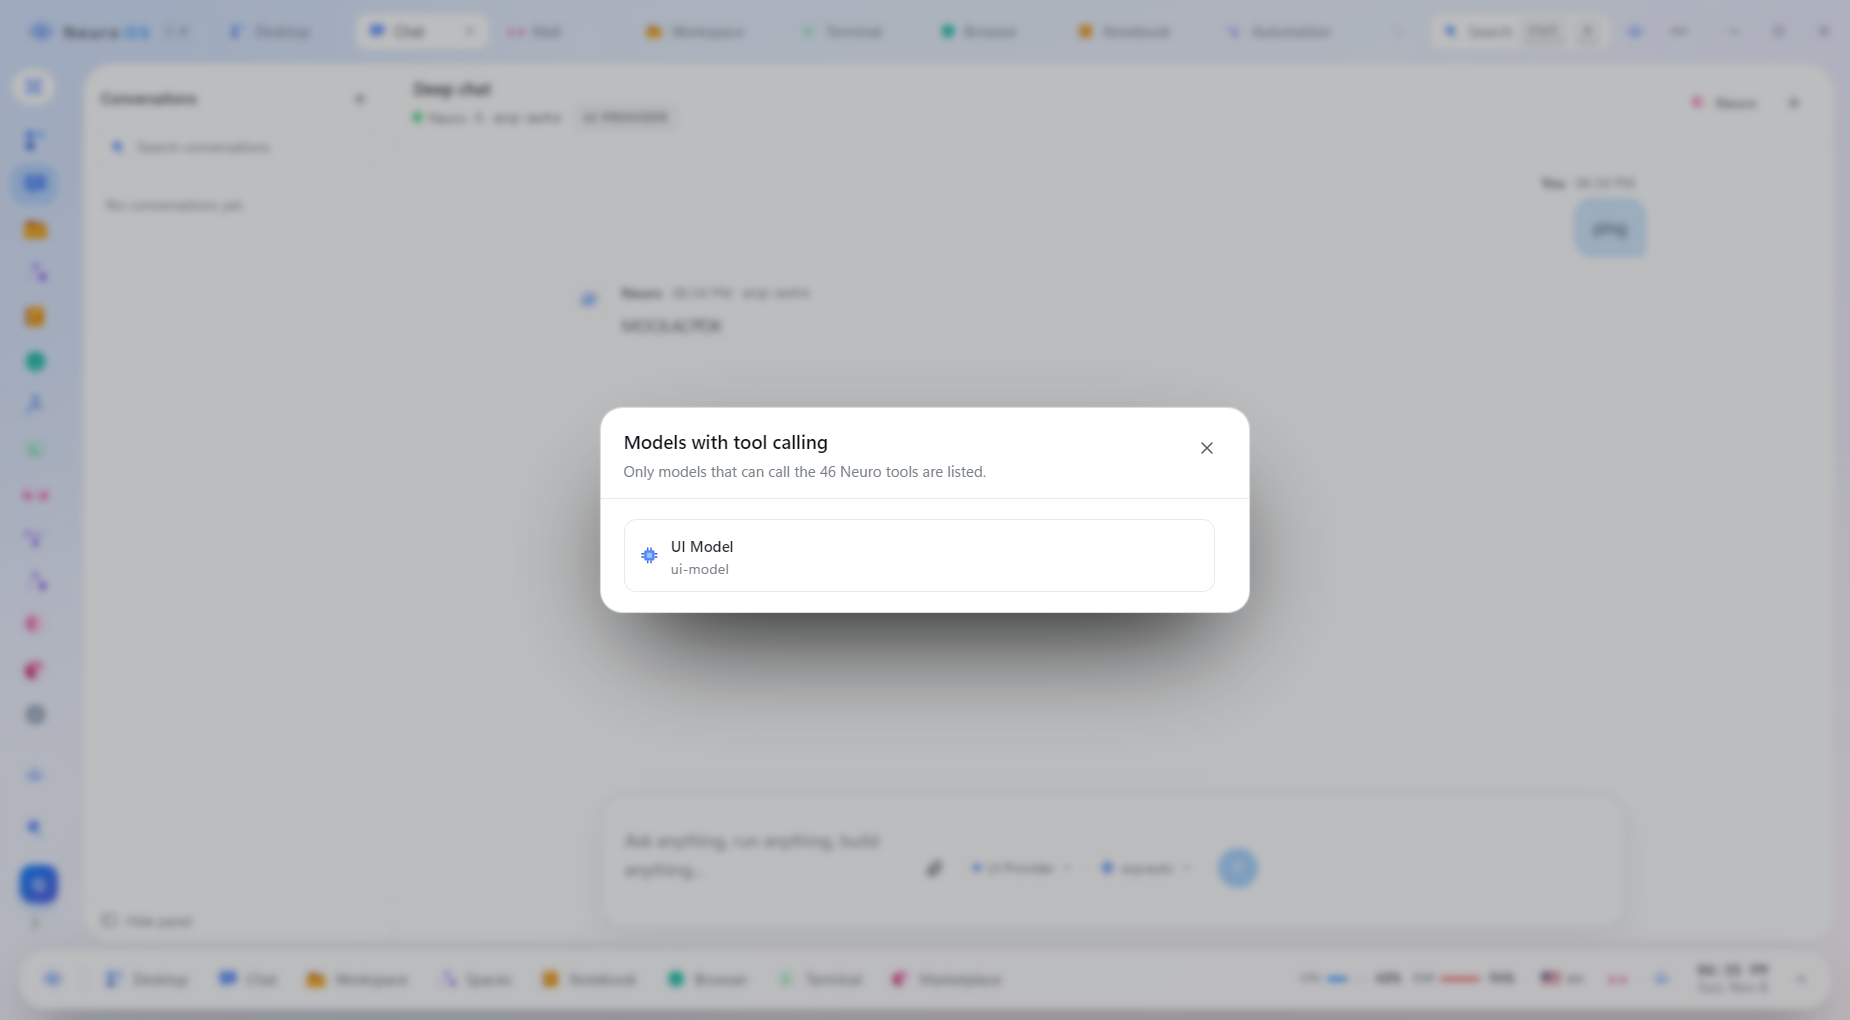
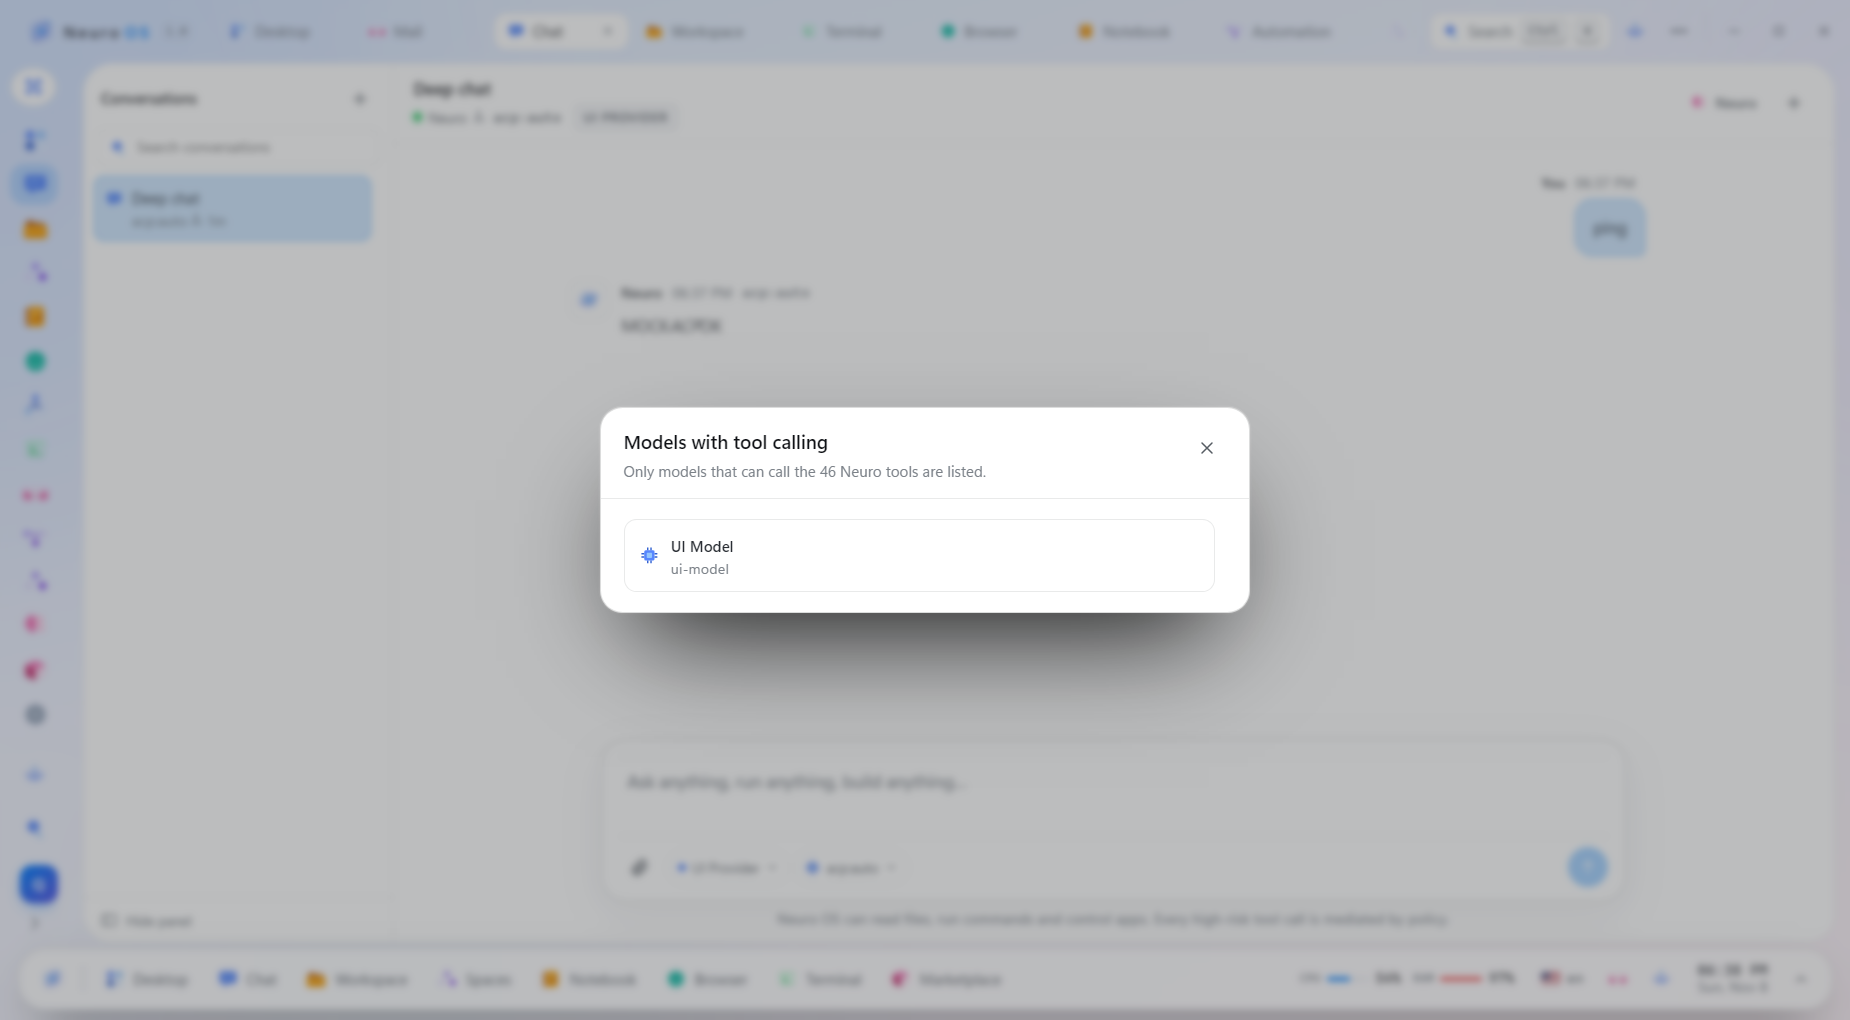
fix(chat): full-width composer textarea and correct underscore rendering
- the chat composer no longer inherits the Composer surface's 3-column grid; the textarea
  takes the full box and provider/model/attach/send sit in their own toolbar row
- markdown no longer turns intraword underscores into italics (MOCK_ACP_OK stays intact)

diff --git a/src/renderer/src/components/Markdown.tsx b/src/renderer/src/components/Markdown.tsx
@@ -1,4 +1,4 @@
-import { Fragment, useMemo, useState, type ReactNode } from 'react';
+import { Fragment, useMemo, useState, type ReactNode } from 'react';
 import { Icon } from './Icon';
 
 /* A small, dependency-free markdown renderer optimised for chat streaming. */
@@ -105,7 +105,7 @@ function parse(markdown: string): Block[] {
 
 function inline(text: string, keyPrefix: string): ReactNode[] {
   const nodes: ReactNode[] = [];
-  const pattern = /(`[^`]+`)|(\*\*[^*]+\*\*)|(__[^_]+__)|(\*[^*\n]+\*)|(_[^_\n]+_)|(\[[^\]]+\]\([^)]+\))|(https?:\/\/[^\s<)]+)/g;
+  const pattern = /(`[^`]+`)|(\*\*[^*]+\*\*)|(\*[^*\n]+\*)|(\[[^\]]+\]\([^)]+\))|(https?:\/\/[^\s<)]+)/g;
   let last = 0;
   let match: RegExpExecArray | null;
   let i = 0;
@@ -240,3 +240,4 @@ export function Markdown({ source, className = '' }: { source: string; className
 }
 
 export const markdownHelpers = { Fragment };
+

diff --git a/src/renderer/src/styles/chat.css b/src/renderer/src/styles/chat.css
@@ -667,3 +667,10 @@
 .composer__attachmentChip img { width: 22px; height: 22px; border-radius: 5px; object-fit: cover; }
 .composer__attachmentChip button { border: 0; background: transparent; color: var(--n-text-4); padding: 0; display: grid; place-items: center; }
 
+
+/* Chat composer must not inherit the Composer surface's 3-column grid */
+.chat .composer { display: flex; flex-direction: column; grid-template-columns: none; height: auto; min-height: 0; }
+.chat .composer__input { width: 100%; min-height: 58px; max-height: 220px; padding: 8px 6px 2px; }
+.chat .composer__bottom { width: 100%; margin-top: 6px; padding-top: 8px; border-top: 1px solid var(--n-line); }
+.chat .composer__attachmentsAbove { width: 100%; }
+

diff --git a/BUGS.md b/BUGS.md
@@ -118,3 +118,10 @@ Earlier red-team fixes (details in [`redteam-report.md`](redteam-report.md)): ma
 | Model pill | Opens “Models with tool calling”: only models whose supportsTools is not false; shows context window and vision badges. |
 | Image upload | Paperclip reads PNG/JPEG/WebP/GIF up to 8 MB, shows thumbnails/chips (max 4), sends them as multimodal content to OpenAI-compatible providers, and renders them in the user message. |
 | Backend | New system.readDataUrl IPC returns a data URL; LlmMessage carries images; adapters with vision support receive image_url blocks. |
+
+## Chat layout pass
+
+| Issue | Fix |
+| --- | --- |
+| Chat composer inherited the Composer surface’s 3-column grid (`.composer { display: grid; grid-template-columns: 236px 1fr 300px }`), squeezing the textarea and putting the toolbar beside it. | Scoped `.chat .composer` overrides: flex column, full-width textarea with min-height, toolbar in its own row behind a divider, send button on the right. |
+| Identifiers with underscores (`MOCK_ACP_OK`) rendered as emphasis (`MOCKACPOK`) because the markdown inline parser treated `_…_` as italic anywhere. | Removed underscore emphasis from the inline pattern; `*italic*` and `**bold**` still work. |
